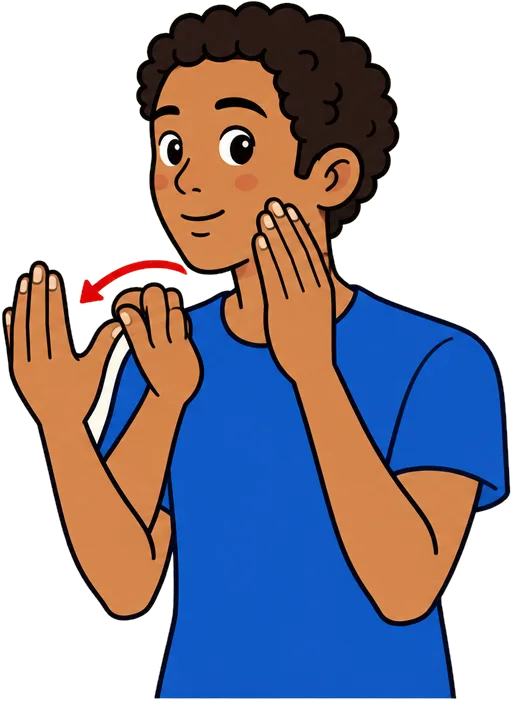
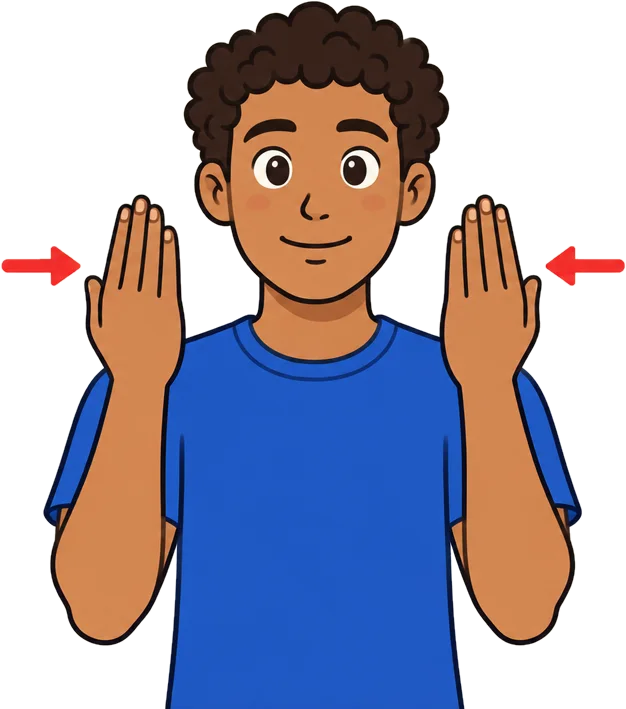
Corregir buenas noches y retirar postura errónea de buenos días

diff --git a/src/js/data/repository.js b/src/js/data/repository.js
@@ -26,11 +26,12 @@ function aliases(word) {
 }
 
 export async function loadLibrary() {
-  const [signs, custom, modules, version] = await Promise.all([
+  const [signs, custom, modules, version, imageOverrides] = await Promise.all([
     getJson(config.paths.signs),
     getJson(config.paths.customSigns, []),
     getJson(config.paths.modules),
     getJson(config.paths.version, { images: 0 }),
+    getJson(config.paths.imageOverrides, {}),
   ]);
   state.imageVersion = version.images;
   // El PDF de referencia es opcional: no se distribuye con el sitio publicado.
@@ -38,6 +39,8 @@ export async function loadLibrary() {
   state.signs = [...signs, ...custom];
   state.modules = modules;
   for (const sign of state.signs) {
+    // Fotogramas definidos a mano (más posturas que las del diccionario): sobreviven a tools/build_data.py.
+    if (imageOverrides[sign.id]) sign.images = imageOverrides[sign.id];
     state.byId.set(sign.id, sign);
     if (!state.byModule.has(sign.module)) state.byModule.set(sign.module, []);
     state.byModule.get(sign.module).push(sign);

diff --git a/index.html b/index.html
@@ -11,7 +11,7 @@
     <link rel="stylesheet" href="src/styles/base.css?v=3">
     <link rel="stylesheet" href="src/styles/components.css?v=3">
     <link rel="stylesheet" href="src/styles/views.css?v=3">
-    <script type="module" src="src/js/main.js?v=5"></script>
+    <script type="module" src="src/js/main.js?v=6"></script>
   </head>
   <body>
     <a class="skip-link" href="#app">Saltar al contenido</a>

diff --git a/src/js/core/config.js b/src/js/core/config.js
@@ -10,6 +10,7 @@ export const config = {
     customSigns: "data/custom-signs.json",
     modules: "data/modules.json",
     version: "data/version.json",
+    imageOverrides: "data/image-overrides.json",
     signImages: "data/img/signs/",
     letterImages: "data/img/alphabet/",
     dictionaryPdf: "recursos/Diccionario-lengua-de-senas.pdf",

diff --git a/tools/ai/PENDIENTES.md b/tools/ai/PENDIENTES.md
@@ -1,0 +1,23 @@
+# Ilustraciones pendientes
+
+Se generan con ElevenLabs (flujo «Muestras de señas LSC», modelo gpt-image-2.5-sunburst, 433 créditos
+por imagen) y se recortan con `python3 tools/ai/cutout.py origen.png data/img/signs/<nombre>.webp`.
+Después hay que subir el número de `data/version.json`.
+
+## Posturas que faltan en señas ya empezadas
+
+- `buenas-noches-3`: brazos cruzados por las muñecas frente a la cara, manos cerradas (final de NOCHE).
+  Al tenerla, añadirla a `data/image-overrides.json`.
+- `buenos-dias-2`: brazos cruzados con las manos cerradas. La versión anterior salió con tres manos y se retiró.
+- `buenos-dias-3`: brazos separados, manos abiertas con las palmas hacia adelante.
+  Al tener ambas, poner `["buenos-dias-1.webp", "buenos-dias-2.webp", "buenos-dias-3.webp"]` en los ajustes.
+
+## Señas sin ilustrar
+
+Todas las que no aparecen en `ilustradas-con-ia.txt` siguen con la caricatura automática.
+Del módulo de personas falta `homosexual-1`.
+
+## Criterio de revisión
+
+No se publica una imagen si tiene manos de más, manos sueltas, flechas dibujadas sobre el cuerpo,
+dedos que no se distinguen o una postura que no coincide con la descripción del diccionario.
